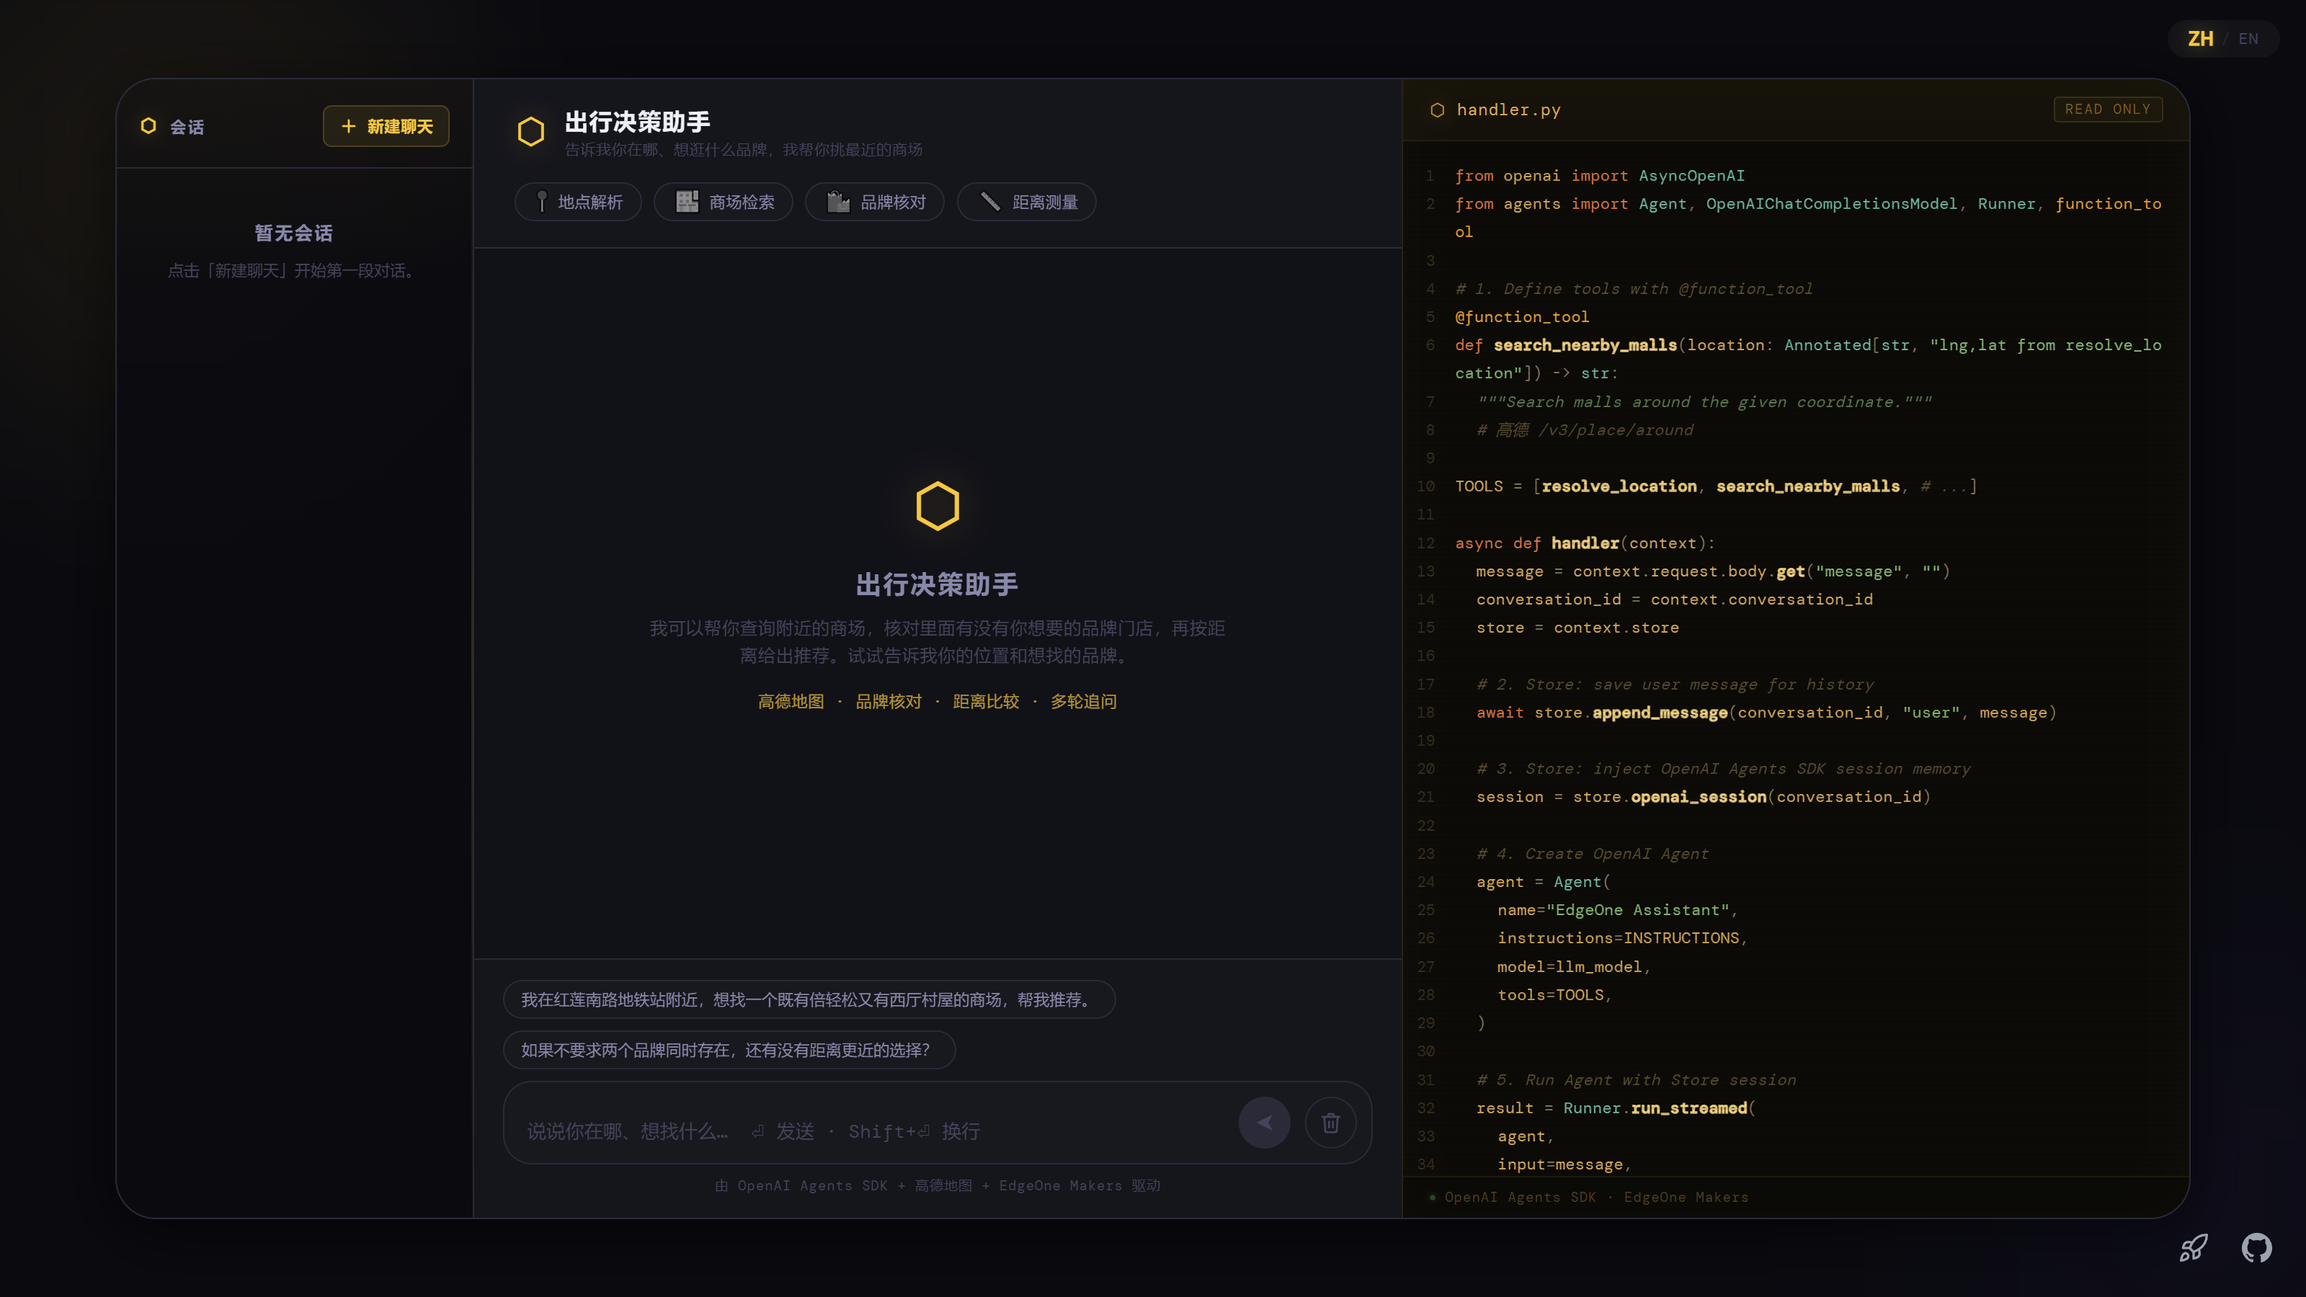
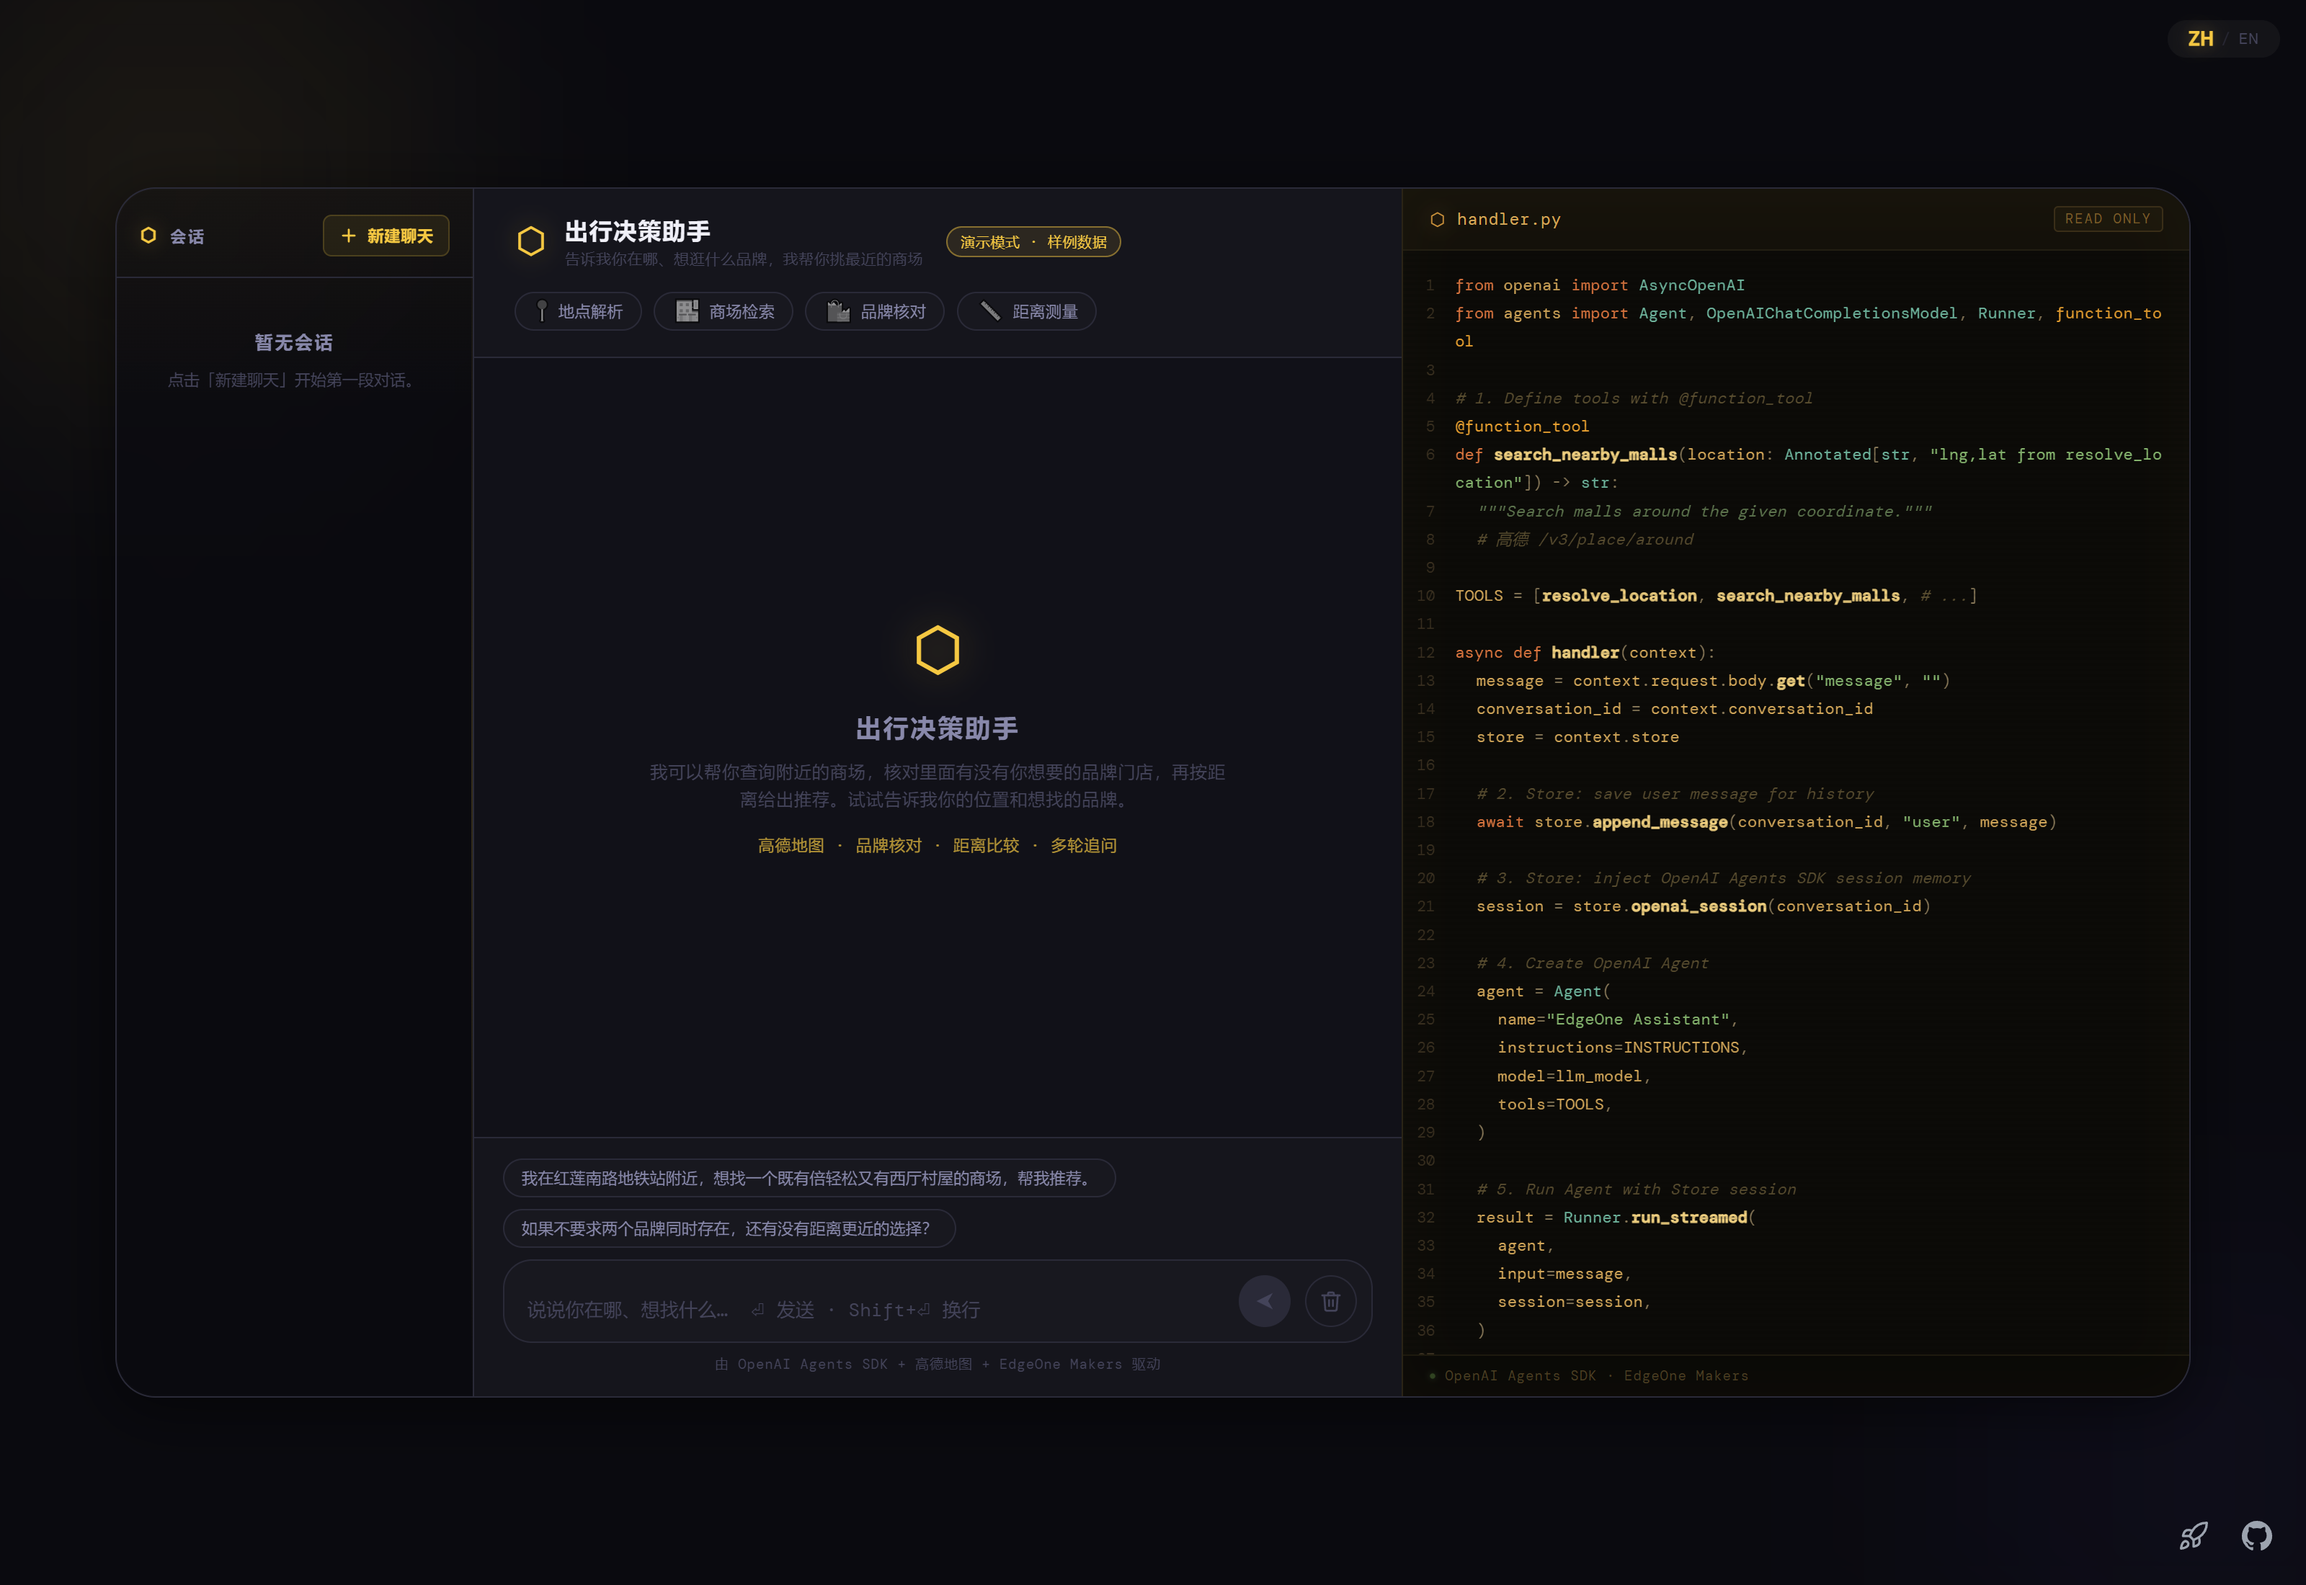
feat(ui): 顶部显示运行时模式角标 + 截图脚本去掉悬停/焦点干扰
- App.tsx: 启动时读一次 GET /status，演示模式或样例数据时在标题旁挂角标
  （线上 Makers 没有该接口，取不到就静默不显示）
- i18n: 补 status.* 四个中英文案
- tests/shot.py: 截图前移开鼠标、blur 焦点、清选区并等过渡结束，避免
  预设问题按钮残留金色高亮
- submission/: 三张证据照按新界面重新生成

diff --git a/src/App.tsx b/src/App.tsx
@@ -105,6 +105,10 @@ function AppInner() {
   const [debugEvents, setDebugEvents] = useState<RawSseEvent[]>([]);
   const [rightPanelMode, setRightPanelMode] = useState<'code' | 'debug'>('code');
 
+  // 运行时模式（本地演示 / 内置样例数据）。只在本地 `local_dev.py` 有这个接口，
+  // 线上 Makers 不返回 /status，取不到就当作正常模式，不显示任何角标。
+  const [runtimeMode, setRuntimeMode] = useState<{ demo: boolean; mock: boolean } | null>(null);
+
   // Conversation list (sidebar) state
   const [conversations, setConversations] = useState<ConversationSummary[]>([]);
   const [conversationsLoading, setConversationsLoading] = useState(true);
@@ -124,6 +128,21 @@ function AppInner() {
   useEffect(() => {
     conversationIdRef.current = activeConversationId;
   }, [activeConversationId]);
+
+  // 探一次运行时模式：让「演示模式 / 样例数据」在页面上常驻可见，
+  // 而不是只在每条回答的正文里标一句（截图和验收时一眼能看出数据来源）。
+  useEffect(() => {
+    let alive = true;
+    fetch('/status')
+      .then(r => (r.ok ? r.json() : null))
+      .then(d => {
+        if (alive && d && typeof d === 'object') {
+          setRuntimeMode({ demo: !!d.demo, mock: !!d.mock });
+        }
+      })
+      .catch(() => { /* 线上没有这个接口，安静跳过 */ });
+    return () => { alive = false; };
+  }, []);
 
   // Update lamp labels when language changes
   useEffect(() => {
@@ -578,6 +597,18 @@ function AppInner() {
                 <p className={styles.title}>{t("app.title")}</p>
                 <p className={styles.subtitle}>{t("app.subtitle")}</p>
               </div>
+              {runtimeMode && (runtimeMode.demo || runtimeMode.mock) && (
+                <span
+                  className={styles.modeBadge}
+                  title={t("status.hint")}
+                >
+                  {runtimeMode.demo && runtimeMode.mock
+                    ? t("status.demoMock")
+                    : runtimeMode.demo
+                      ? t("status.demo")
+                      : t("status.mock")}
+                </span>
+              )}
             </div>
             <ToolIndicators lamps={lamps} />
           </header>

diff --git a/src/i18n/en.ts b/src/i18n/en.ts
@@ -3,6 +3,12 @@ const en = {
   "app.title": "Travel Decision Assistant",
   "app.subtitle": "Tell me where you are and what brands you need — I'll find the nearest mall",
 
+  // Runtime mode badge (only served by the local dev runtime via /status)
+  "status.demo": "Demo mode · no model",
+  "status.mock": "Sample data",
+  "status.demoMock": "Demo mode · sample data",
+  "status.hint": "No model key configured: replies come from local rules, and map data is the built-in sample set (AMAP_MOCK=1) rather than live Amap results",
+
   // Empty state
   "empty.title": "Travel Decision Assistant",
   "empty.hint": "I can find malls near you, check whether they carry the brands you want, and rank them by distance. Tell me your location and the brands to get started.",

diff --git a/src/i18n/zh.ts b/src/i18n/zh.ts
@@ -3,6 +3,12 @@ const zh = {
   "app.title": "出行决策助手",
   "app.subtitle": "告诉我你在哪、想逛什么品牌，我帮你挑最近的商场",
 
+  // 顶部模式角标（仅本地 local_dev.py 会返回 /status）
+  "status.demo": "演示模式 · 无模型",
+  "status.mock": "样例数据",
+  "status.demoMock": "演示模式 · 样例数据",
+  "status.hint": "当前没有模型 Key，回答由本地规则生成；地图数据来自内置样例（AMAP_MOCK=1），不是高德实时结果",
+
   // Empty state
   "empty.title": "出行决策助手",
   "empty.hint": "我可以帮你查询附近的商场，核对里面有没有你想要的品牌门店，再按距离给出推荐。试试告诉我你的位置和想找的品牌。",

diff --git a/src/App.module.css b/src/App.module.css
@@ -138,6 +138,22 @@
   align-items: center;
   gap: 12px;
 }
+
+/* 运行时模式角标：只在本地演示 / 样例数据时出现，提示当前数据来源 */
+.modeBadge {
+  flex-shrink: 0;
+  align-self: center;
+  margin-left: 4px;
+  padding: 3px 9px;
+  border-radius: 999px;
+  border: 1px solid rgba(245, 200, 66, .45);
+  background: rgba(245, 200, 66, .1);
+  color: var(--accent-gold);
+  font-size: .62rem;
+  letter-spacing: .04em;
+  white-space: nowrap;
+  cursor: help;
+}
 .logo {
   font-size: 1.8rem;
   color: var(--accent-gold);

diff --git a/tests/shot.py b/tests/shot.py
@@ -36,6 +36,9 @@ def wait_idle(page, timeout: int = 90_000) -> None:
         timeout=timeout,
     )
     page.wait_for_timeout(1200)  # 留点时间给动画/滚动落位
+    page.mouse.move(4, 4)        # 鼠标移开，避免截图里留下预设问题的悬停高亮
+    page.evaluate("() => { document.activeElement instanceof HTMLElement && document.activeElement.blur(); window.getSelection()?.removeAllRanges(); }")
+    page.wait_for_timeout(350)   # 等按钮的 hover/focus 过渡色退干净再截
 
 
 def main() -> int:
@@ -48,7 +51,7 @@ def main() -> int:
             args=["--no-proxy-server", "--force-device-scale-factor=2"],
         )
         ctx = browser.new_context(
-            viewport={"width": 1600, "height": 900},
+            viewport={"width": 1600, "height": 1100},
             device_scale_factor=2,
             locale="zh-CN",
         )
